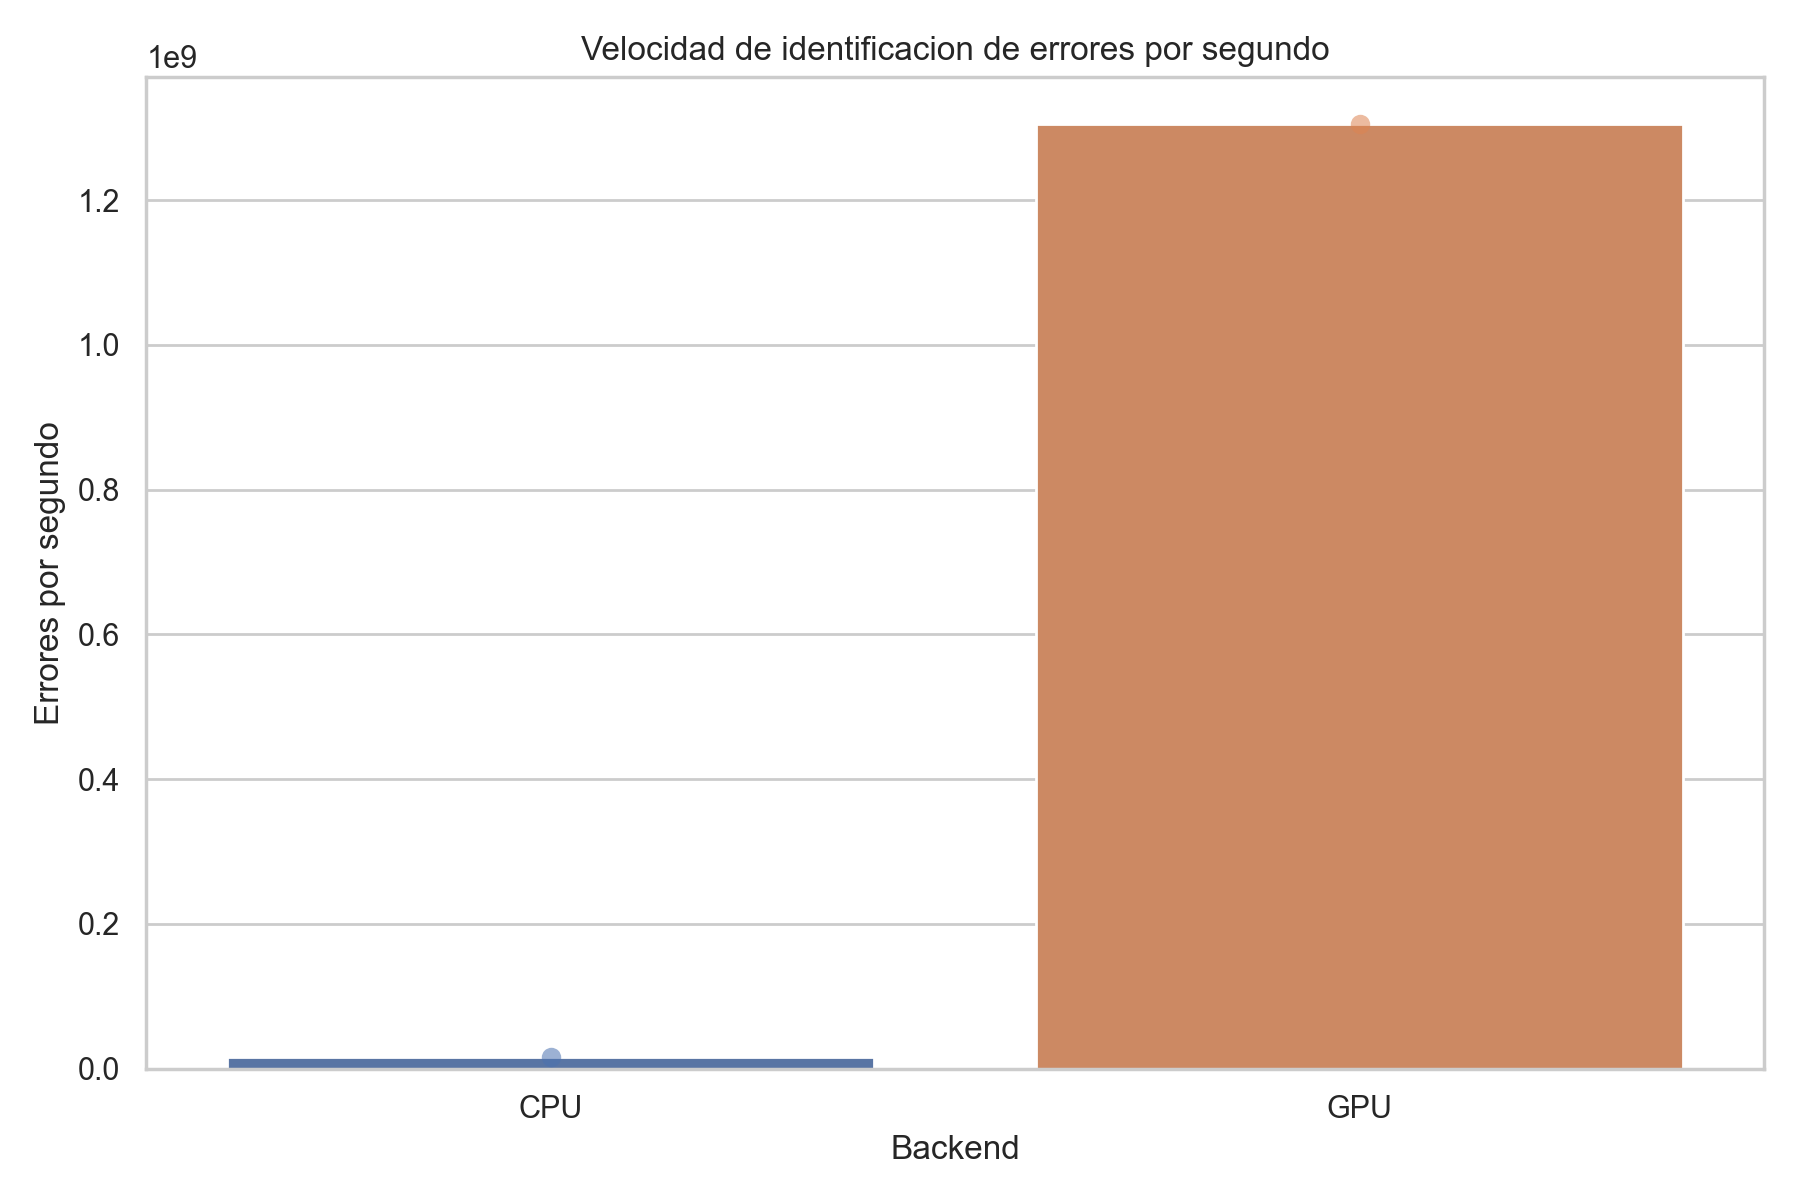
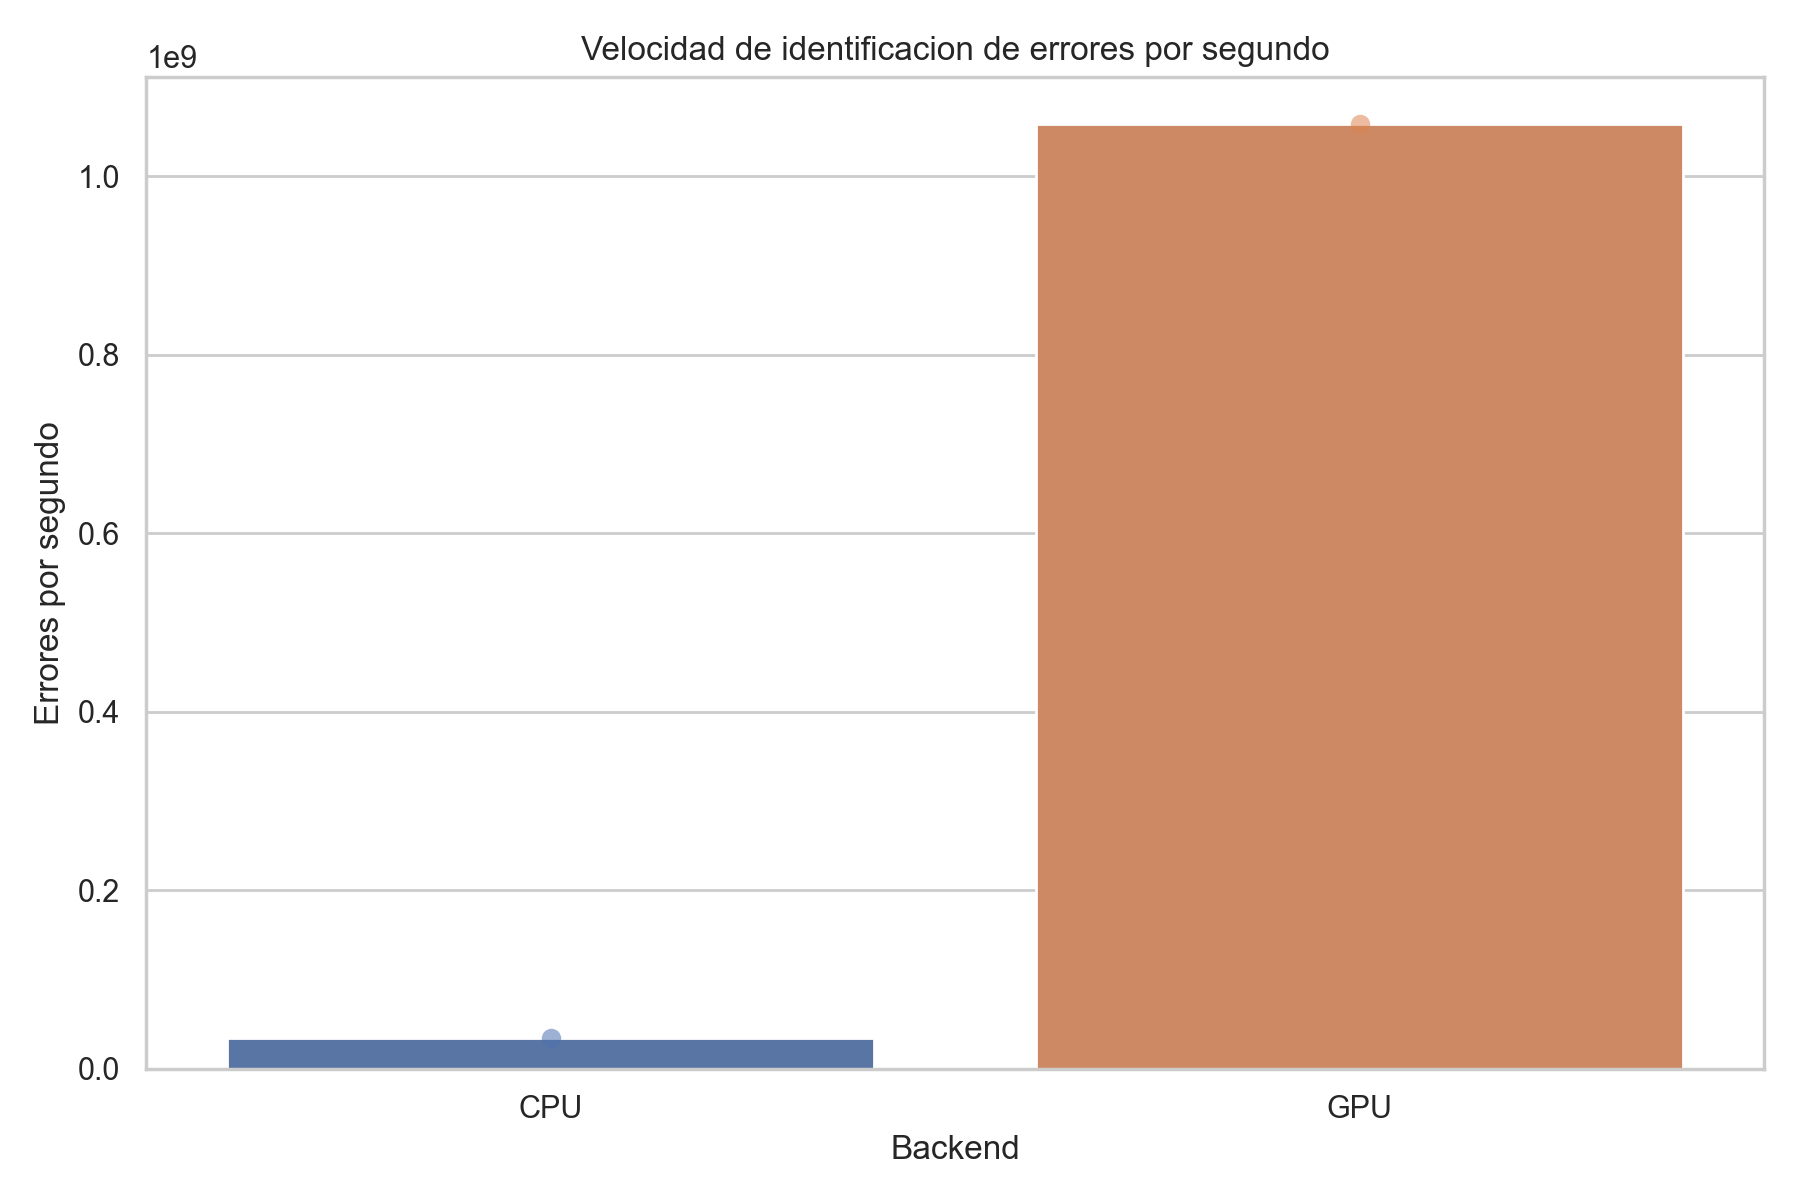
sebas compilo

diff --git a/colaborativo2/benchmark_artifacts/summary.md b/colaborativo2/benchmark_artifacts/summary.md
@@ -5,15 +5,15 @@ Archivo analizado completo en todas las ejecuciones.
 ## Ejecuciones
 
 ```text
-backend                                                                                       input_path  input_bases  processors  repeat  time_seconds  bases_per_second   invalids  invalids_per_second   count_A   count_C   count_G   count_T  avg_cpu_percent  peak_cpu_percent  peak_memory_mb  avg_gpu_util_percent  peak_gpu_util_percent  peak_gpu_memory_mb  samples
-    CPU C:\DevStuff\University\computaion_paralela\colaborativo2\GCF_000001405.40_GRCh38.p14_genomic.fna   3298430636        16.0       1     86.216350      3.825760e+07 1352989787         1.569296e+07 558619211 413530454 413917617 559373567        72.531730         94.206982     1356.484375                   NaN                    NaN                 NaN      360
-    GPU C:\DevStuff\University\computaion_paralela\colaborativo2\GCF_000001405.40_GRCh38.p14_genomic.fna   3298430636         NaN       1      1.036628      3.181884e+09 1352989787         1.305183e+09 558619211 413530454 413917617 559373567         6.613419          8.277112     7532.253906             28.257732                  100.0              7685.0      291
+backend                                                                                      input_path  input_bases  processors  repeat  time_seconds  bases_per_second   invalids  invalids_per_second   count_A   count_C   count_G   count_T  avg_cpu_percent  peak_cpu_percent  peak_memory_mb  avg_gpu_util_percent  peak_gpu_util_percent  peak_gpu_memory_mb  samples
+    CPU C:\RepositoriosTesis\computacion_paralela\colaborativo2\GCA_000001405.29_GRCh38.p14_genomic.fna   3298912062        16.0       1     40.192326      8.207816e+07 1353096152         3.366553e+07 558708442 413632783 414016300 559458385        93.749788        104.218873     1400.203125                   NaN                    NaN                 NaN      180
+    GPU C:\RepositoriosTesis\computacion_paralela\colaborativo2\GCA_000001405.29_GRCh38.p14_genomic.fna   3298912062         NaN       1      1.278415      2.580471e+09 1353096152         1.058417e+09 558708442 413632783 414016300 559458385         6.178187          7.049080     7515.433594                 1.375                   93.0              6460.0      232
 ```
 
 ## Promedios por backend
 
 ```text
 backend  repeticiones  tiempo_promedio_s  tiempo_min_s  tiempo_max_s  max_memoria_mb  cpu_promedio_pct  gpu_promedio_pct  errores_por_segundo  throughput_bases_s
-    CPU             1          86.216350     86.216350     86.216350     1356.484375         72.531730               NaN         1.569296e+07        3.825760e+07
-    GPU             1           1.036628      1.036628      1.036628     7532.253906          6.613419         28.257732         1.305183e+09        3.181884e+09
+    CPU             1          40.192326     40.192326     40.192326     1400.203125         93.749788               NaN         3.366553e+07        8.207816e+07
+    GPU             1           1.278415      1.278415      1.278415     7515.433594          6.178187             1.375         1.058417e+09        2.580471e+09
 ```
